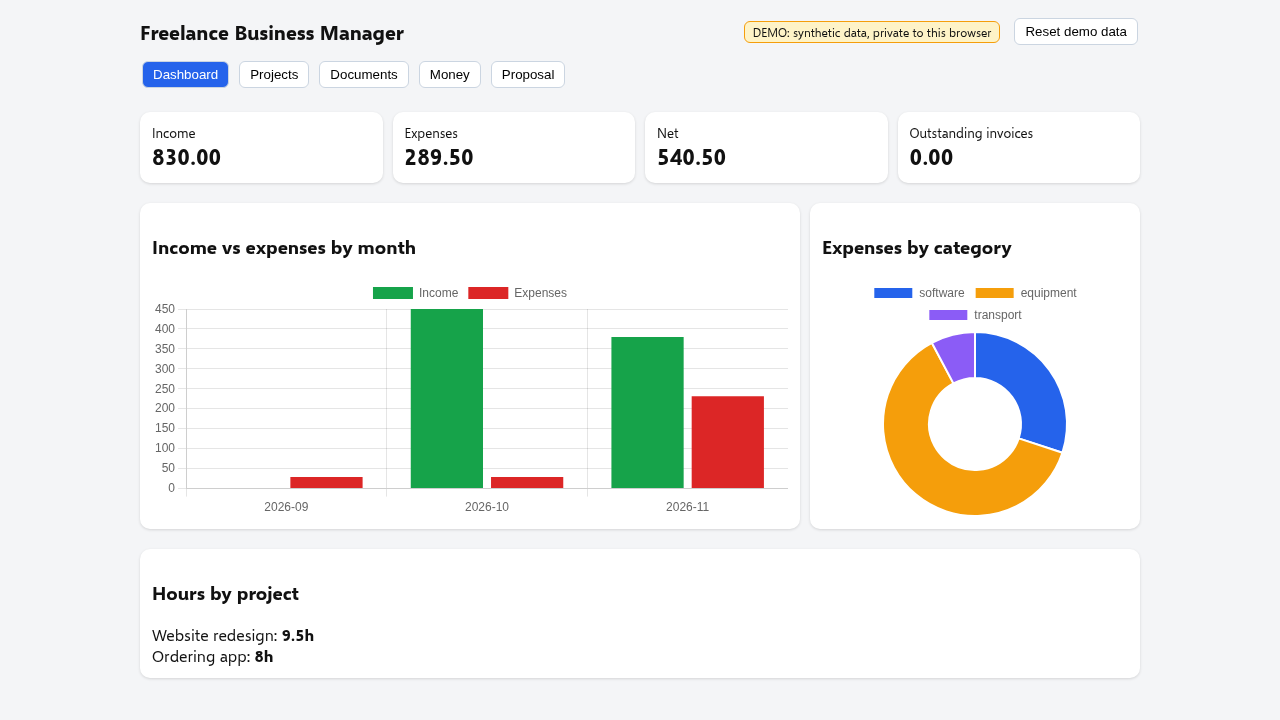
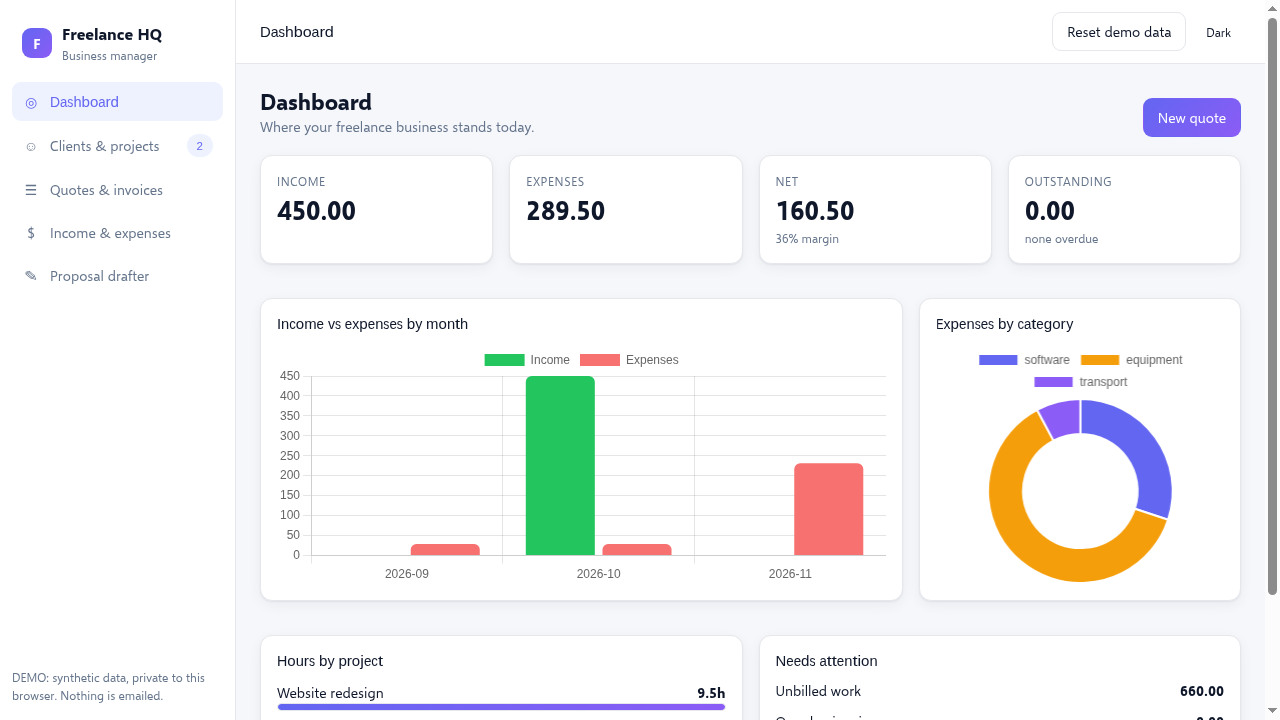
docs: update README and screenshots for the v3 UI

diff --git a/README.md b/README.md
@@ -6,6 +6,9 @@ Track clients, projects, hours, quotes, invoices (with PDF), income and expenses
 Open it and you get synthetic demo data (clearly labeled), private to your browser. "Reset demo data" wipes it. Nothing is ever emailed; "Mark sent" only changes a status.
 
 ![Dashboard](docs/dashboard.png)
+![Invoice detail](docs/invoice.png)
+
+Pages: Dashboard (Chart.js), Clients and projects, Quotes and invoices (multi-line quote builder, PDF), Income and expenses (CSV export), Proposal drafter (can create a quote from the draft).
 
 ## Stack
 React + TypeScript (Vite) with Chart.js, FastAPI, PostgreSQL (SQLAlchemy), fpdf2 for PDFs, optional LLM API for proposals. Docker + docker-compose. Tests: pytest (real embedded Postgres) and vitest.
